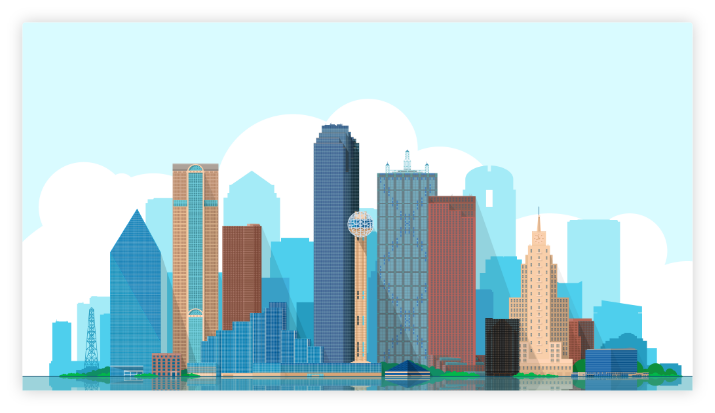
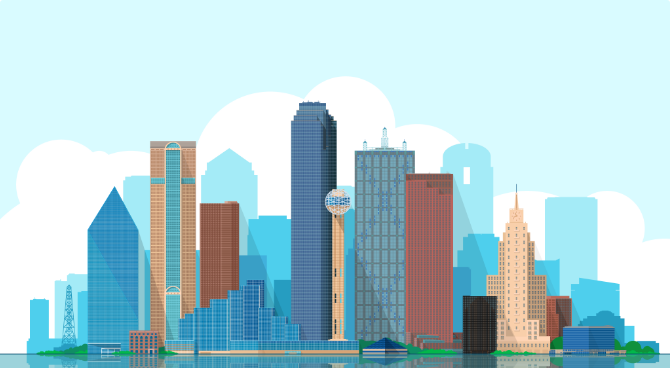
basic structure

diff --git a/src/icons/Clouds.jsx b/src/icons/Clouds.jsx
@@ -1,0 +1,82 @@
+import styled from "styled-components";
+
+//the cloud on the right side
+const CloudOne = (props) => (
+  <Container
+    className="cloud-one"
+    xmlns="http://www.w3.org/2000/svg"
+    width={212.568}
+    height={123.676}
+    viewBox="0 0 212.568 123.676"
+    {...props}
+  >
+    <g id="Group" transform="translate(-0.184 -0.662)">
+      <path
+        id="Combined_Shape_Copy_2"
+        data-name="Combined Shape Copy 2"
+        d="M50.917,86.117a41.1,41.1,0,0,1-14.643,2.655C16.24,88.771,0,74.761,0,57.479S16.24,26.185,36.274,26.185a41.252,41.252,0,0,1,13.557,2.259C61.23,11.45,82.665,0,107.228,0c19.074,0,36.26,6.9,48.327,17.945a15.239,15.239,0,0,1,25.391,9.9c14.737,1.97,25.991,12.546,25.991,25.3,0,14.153-13.865,25.627-30.969,25.627A37.188,37.188,0,0,1,168.386,78c-9.9,20.542-33.551,35-61.158,35C83.423,113,62.557,102.249,50.917,86.117Z"
+        transform="translate(206.839 124.338) rotate(-177)"
+        fill="#fff"
+        opacity={0.888}
+      />
+    </g>
+  </Container>
+);
+
+//the cloud on the left side
+const CloudTwo = (props) => (
+  <Container
+    className="cloud-two"
+    xmlns="http://www.w3.org/2000/svg"
+    width={154.034}
+    height={100.052}
+    viewBox="0 0 154.034 100.052"
+    {...props}
+  >
+    <g id="Group_2" data-name="Group 2" transform="translate(-0.37 -0.861)">
+      <path
+        id="Combined_Shape"
+        data-name="Combined Shape"
+        d="M63.743,79.144A18.074,18.074,0,0,1,52.5,83,17.48,17.48,0,0,1,36.037,72.108,27.3,27.3,0,0,1,26,74C11.641,74,0,63.031,0,49.5S11.641,25,26,25a27.041,27.041,0,0,1,14.086,3.9C45.8,12.142,62.632,0,82.5,0c17.348,0,32.377,9.258,39.717,22.765A18.467,18.467,0,0,1,127.5,22c9.665,0,17.5,7.388,17.5,16.5S137.165,55,127.5,55a18.67,18.67,0,0,1-2.829-.215C118.731,71.19,102.1,83,82.5,83A47.046,47.046,0,0,1,63.743,79.144Z"
+        transform="translate(10.485 0.861) rotate(7)"
+        fill="#fff"
+        opacity={0.888}
+      />
+    </g>
+  </Container>
+);
+
+const Container = styled.svg`
+  position: absolute;
+  @keyframes move-around1 {
+    0% {
+      transform: translate(-170%, -35%);
+    }
+    50% {
+      transform: translate(170%, -35%);
+    }
+    100% {
+      transform: translate(-170%, -35%);
+    }
+  }
+  @keyframes move-around2 {
+    0% {
+      transform: translate(250%, -35%);
+    }
+    50% {
+      transform: translate(-250%, -35%);
+    }
+    100% {
+      transform: translate(250%, -35%);
+    }
+  }
+
+  &.cloud-one {
+    animation: move-around1 35s infinite;
+  }
+  &.cloud-two {
+    animation: move-around2 35s infinite;
+  }
+`;
+
+export { CloudOne, CloudTwo };

diff --git a/src/components/Card.jsx b/src/components/Card.jsx
@@ -1,0 +1,47 @@
+import styled from "styled-components";
+
+import { palette } from "../constants/colors";
+import Dallas from "../assets/Dallas.png";
+
+const Card = () => {
+  return (
+    <Container>
+      <BackgroundImage src={Dallas} />
+
+      <ForcastContainer>
+        <ForcastCard>sunny</ForcastCard>
+        <ForcastCard>sunny</ForcastCard>
+        <ForcastCard>sunny</ForcastCard>
+        <ForcastCard>sunny</ForcastCard>
+        <ForcastCard>sunny</ForcastCard>
+      </ForcastContainer>
+    </Container>
+  );
+};
+
+const Container = styled.div``;
+
+const BackgroundImage = styled.img`
+  /* making the image fit with the width */
+  width: 100%;
+  height: auto;
+`;
+
+const ForcastContainer = styled.div`
+  display: flex;
+  /* width: 100%; */
+`;
+
+const ForcastCard = styled.div`
+  display: flex;
+  /* align-items: center; */
+  justify-content: center;
+  color: ${palette.grey};
+  background-color: ${palette.white};
+  padding: 10px 20px 10px 20px;
+  width: 100%;
+  /* border: 1px solid ${palette.grey}; */
+  /* margin-right: 1px; */
+`;
+
+export default Card;

diff --git a/src/App.js b/src/App.js
@@ -1,5 +1,30 @@
-function App() {
-  return <div className="App">Hello!</div>;
-}
+import styled from "styled-components";
 
+import Card from "./components/Card";
+import Header from "./components/Header";
+import { palette } from "./constants/colors";
+import { CloudOne, CloudTwo } from "./icons/Clouds";
+
+function App() {
+  return (
+    <div>
+      <Container>
+        <CloudOne />
+        <CloudTwo />
+        <Header location={"Dallas, TX"} date={"Saturday, Sep 16, 2022"} />
+        <Card />
+      </Container>
+    </div>
+  );
+}
+const Container = styled.div`
+  color: ${palette.white};
+  display: flex;
+  flex-direction: column;
+  /* margin-top: 100px; */
+  margin-top: 10%;
+  align-items: center;
+  justify-content: center;
+  width: 100%;
+`;
 export default App;

diff --git a/src/components/Header.jsx b/src/components/Header.jsx
@@ -1,0 +1,30 @@
+import styled from "styled-components";
+import Proptypes from "prop-types";
+
+import { palette } from "../constants/colors";
+
+const Header = ({ location, date }) => {
+  return (
+    <Container>
+      <h3>{location}</h3>
+      <p>{date}</p>
+    </Container>
+  );
+};
+
+const Container = styled.div`
+  display: flex;
+  align-items: center;
+  flex-direction: column;
+  color: ${palette.white};
+  padding: 0 0 25px 0;
+  h3 {
+    font-size: 1.3rem;
+  }
+
+  p {
+    font-size: 0.85rem;
+  }
+`;
+
+export default Header;

diff --git a/src/constants/mixins.js b/src/constants/mixins.js
@@ -1,0 +1,11 @@
+export const breakpoints = {
+  phone_sm: "320px",
+  phone_md: "375px",
+  phone_lg: "425px",
+  tablet_sm: "560px",
+  tablet_md: "640px",
+  tablet_lg: "768px",
+  laptop: "1024px",
+  desktop_sm: "1200px",
+  desktop: "1440px",
+};

diff --git a/src/constants/colors.js b/src/constants/colors.js
@@ -1,0 +1,4 @@
+export const palette = {
+  white: "#ffffff",
+  grey: "#707070",
+};
